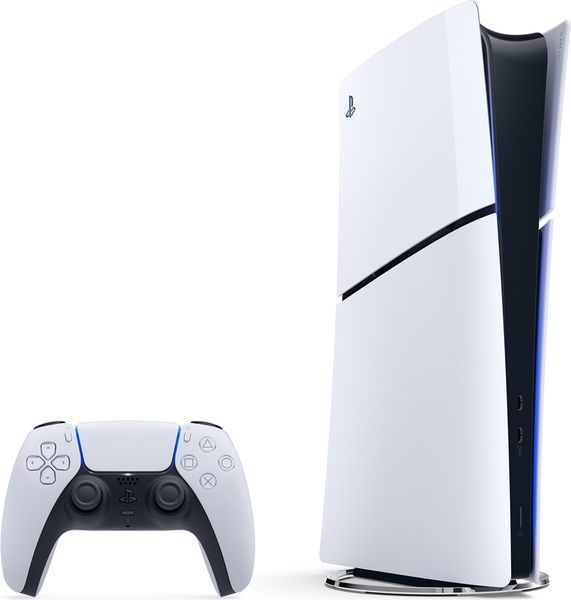
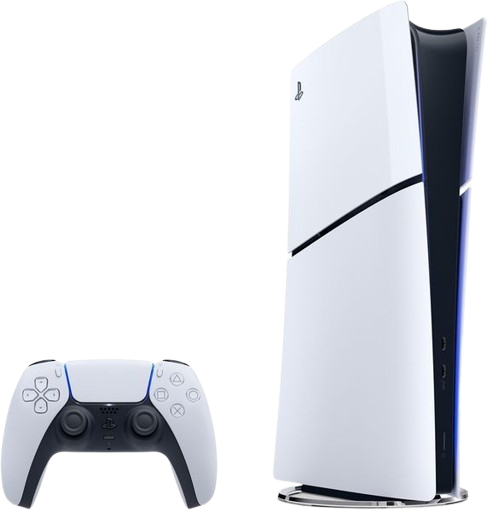
added light and dark mode for home page and added classes for them in the stylesheet removed uncessary files replaced images with the same ones but without the blank background eddited body padding to account for announcment bar and header

diff --git a/style.css b/style.css
@@ -1,17 +1,45 @@
 /* Light theme for the header */
 .main-header {
-    background-color:#005bea; 
-    color: white;
-    text-align: center;
-    font-family: Roboto ;
-    font-weight: bold;
-    position: fixed;
-    top: 0;
-    left: 0;
-    width: 100%;
-    margin-top: 30px; 
+  background-color:#005bea; 
+  color: white;
+  text-align: center;
+  font-family: Roboto ;
+  font-weight: bold;
+  position: fixed;
+  top: 0;
+  left: 0;
+  width: 100%;
+  margin-top: 30px; 
+  height: 15%;
 }
-
+.main-header.dark-mode {
+  background-color:#005bea; 
+  color: white;
+  text-align: center;
+  font-family: Roboto ;
+  font-weight: bold;
+  position: fixed;
+  top: 0;
+  left: 0;
+  width: 100%;
+  margin-top: 30px; 
+}
+body.dark-mode .catigory {
+  display: inline-block;
+  vertical-align: top;
+  align-items: center; /* Centers content horizontally within each category */
+  text-align: center; /* Centers text */
+  border: #005bea 2px solid; /* Adds border around each category */
+  border-radius: 20px; /* Rounds the corners of the border */
+  width: 500px; /* Sets a fixed width for each category */
+  font-family: sans-serif; /* Sets the font family for the category text */
+  font-weight: bold; /* Makes the font bolder */
+  font-size: 20px; /* Sets the font size for the category text */
+  padding: auto; /* Adds padding inside the category box */
+  color: white;
+  margin: 50px; /* Adds space between each category box */   
+  background-color: black;  
+}
 .catigory {
     display: inline-block;
     vertical-align: top;
@@ -24,19 +52,25 @@
     font-weight: bold; /* Makes the font bolder */
     font-size: 20px; /* Sets the font size for the category text */
     padding: auto; /* Adds padding inside the category box */
-   
-    margin: 50px; /* Adds space between each category box */   
+    color: black;
+    margin: 50px; /* Adds space between each category box */  
+    background-color: white; 
 }
+
+
 .catigory:hover  {
     border: #005bea 5px solid; /* Thickens the border */
+    width: 494px
+     /* Increases the height of the category box */
 } 
+
 
 .catigory-img {
     
     margin-bottom: 10px; /* Adds space between image and button */
     display: block; /* Ensures the image is treated as a block element */
-    width: 500px; /* Sets the width of the image */
-    height: 400px; /* Sets the height of the image */
+    width: auto; /* Sets the width of the image */
+    height: auto; /* Sets the height of the image */
 }
 
 
@@ -58,24 +92,46 @@
 }
 
 
-
-body {
-    margin: 0;
-    padding: 0;
-    font-family: Roboto, sans-serif;
-    padding-top: 120px; /* Space for fixed header */
-}
 .footer {
-    background-color: #b1c8f7; /* Sets the background color of the footer */
-    color: white; /* Sets the text color of the footer */
-    text-align: center; /* Centers the text in the footer */
-    padding: 10px; /* Adds padding around the text in the footer */
-    font-family: Roboto;
-    font-weight: bold;
-   
-    width: 100%;
-    
+  background-color: #b1c8f7; /* Sets the background color of the footer */
+  color: white; /* Sets the text color of the footer */
+  text-align: center; /* Centers the text in the footer */
+  padding: 10px; /* Adds padding around the text in the footer */
+  font-family: Roboto;
+  font-weight: bold;
+  left: 0; /* Aligns the footer to the left */ 
+  width: 100%;
+  
 }
+body.dark-mode .footer{
+background-color: grey; /* Sets the background color of the footer */
+color: white; /* Sets the text color of the footer */
+text-align: center; /* Centers the text in the footer */
+padding: 10px; /* Adds padding around the text in the footer */
+font-family: Roboto;
+font-weight: bold;
+left: 0; /* Aligns the footer to the left */ 
+width: 100%;
+
+}
+body {
+  background-color: #ffffff;
+  color: #333333;
+  padding-top: 180px;
+}
+
+/* Dark mode styles */
+body.dark-mode {
+  background-color: #121212;
+  color: #f5f5f5;
+}
+
+/* Smooth transitions */
+body {
+  transition: background-color 0.3s ease, color 0.3s ease;
+}
+
+
 /* ANNOUNCEMENT BAR */
 .announcement-bar {
     position: fixed; /* Makes it stick to top */
@@ -109,24 +165,54 @@ body {
     }
   }
   
-  body {
-    padding-top: 50px;
-  }
-  .close-btn {
-    background: transparent;
-    border: none;
-    color: white;
-    font-size: 24px;
+  .themebutton {
     cursor: pointer;
-    padding: 0 15px;
-    margin-left: auto; /* pushes to far right */
-    transition: transform 0.2s;
-    z-index: 1000; /* Ensures it stays on top */
-  }
+    border: none;
+    background: transparent;
+    padding: 0;
+    cursor: pointer;
+   
+    /* Set dimensions (adjust to your image size) */
+    width: 50px;
+    height: 50px;
+    border-radius: 100px;
   
-  .close-btn:hover {
-    transform: scale(1.2);
-    color: #ffcc00;
-  } #announcement:target {
-    display: none;
+    /* Replace text with an image */
+    background-image: url('Images/moon.jpg');
+    background-size: cover;       /* Ensures image covers the button */
+    background-position: center;  /* Centers the image */
+    
+  
   }
+body.dark-mode .themebutton {
+  cursor: pointer;
+  border: none;
+  background: transparent;
+  padding: 0;
+  cursor: pointer;
+ 
+  /* Set dimensions (adjust to your image size) */
+  width: 50px;
+  height: 50px;
+  border-radius: 100px;
+
+  /* Replace text with an image */
+  background-image: url('Images/sun.jpg');
+  background-size: cover;       /* Ensures image covers the button */
+  background-position: center;  /* Centers the image */
+ 
+
+}
+.title{
+  
+  text-indent: 9%; 
+  font-family: Roboto ;  
+  color: #000000;
+  
+}
+body.dark-mode .title{
+  
+  text-indent: 9%; 
+  font-family: Roboto ;  
+  color: #ffffff;
+}

diff --git a/home.html b/home.html
@@ -9,27 +9,33 @@
     <title>Invincible Store</title>
    
 </head>
-<body>
+<body >
     <div class="announcement-bar" ><div  class="scrolling-text">
         🚨Limited Time Offer: 15% Off All Controllers! Use Code: <strong>INVINCIBLE15</strong> 
   </div> 
+  
 </div>
     <header class="main-header">
-        <h1>Invincible Store</h1>
+        <h1>Invincible Store</h1> 
         <p>Find the best products at unbeatable prices!</p>
+         
+        <button id="theme" class = "themebutton" ></button>
     </header>
 
-        
-        <h1 style="text-align: center ;padding: 20px;" >Featured Products</h1>
-        <br>
+    <br>
+    
+    <h1 class="title" >Featured Products</h1>
+    <br>
         <section style="text-align: center;"  >
            
+            
+          
             
                 <div class="catigory">
 
                         <h2>Console</h2>
                         <a href="console.html" width ><img  src="images/Console.png" width="300" alt="Console" class="catigory-img"></a>
-                        <button  class="shopbutton" onclick="window.location.href='#'"  >Shop now</button >
+                        <button  class="shopbutton" onclick="window.location.href='console.html'"  >Shop now</button >
                    
                     
                 </div>
@@ -52,7 +58,7 @@
         <br>
 
 
-        <footer class="footer"> 
+        <footer class="footer" type = "footer"> 
             <p class="footer-text">© 2025 E-Shop. All rights reserved.</p>
             <div class="social-links">
                 <a href="#" class="social-link">Facebook</a>
@@ -61,5 +67,12 @@
                
             </div>
         </footer>
+        <script>
+               const toggleBtn = document.getElementById('theme');
+    
+          toggleBtn.addEventListener('click', () => {
+            document.body.classList.toggle('dark-mode');
+            });
+        </script>
 </body>
 </html>
